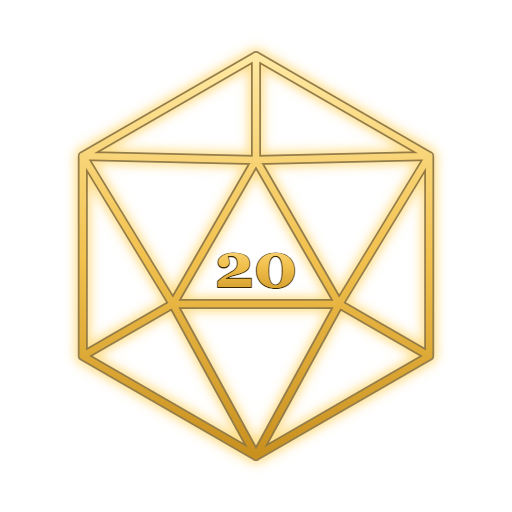
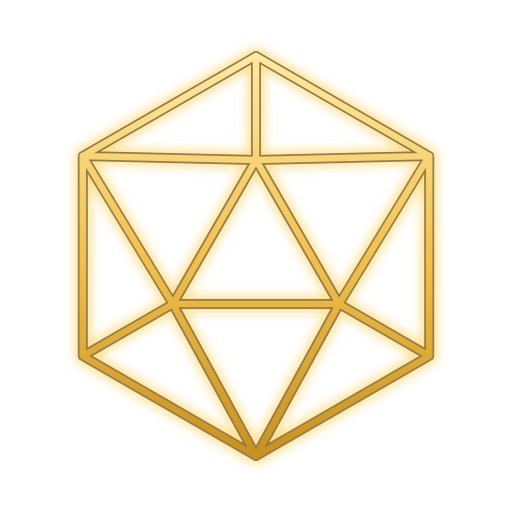
Publish 1.0.0 (2026-10-26)

Changed region(s): [[0.4062, 0.4688, 0.5938, 0.5625]]

diff --git a/obr/background.js b/obr/background.js
@@ -3914,19 +3914,21 @@ var chatKey = (thread) => `kem-chat:${thread}`;
 
 // src/obr/turn-die.js
 var KEY = `${EXT}/turn-die`;
-var SIZE = 2.2;
-var PULSE = { mid: 1.04, depth: 0.08, seconds: 1.6 };
+var SIZE = 1.55;
+var PULSE = { mid: 1.04, depth: 0.08, seconds: 3.2 };
+var SPIN_SECONDS = 60;
 var FRAME_MS = 66;
 var picture = (name) => ({ url: new URL(name, location.href).href, width: 512, height: 512, mime: "image/png" });
 var role = "PLAYER";
 var state = null;
 var settings = {};
-var drawn = { sig: "", glows: [] };
+var drawn = { sig: "", glows: [], dice: [] };
 var busy = false;
 var again = false;
 function wanted() {
-  if (settings.showTurnDie === false || state?.phase !== "active") return [];
-  return state.order?.find((r) => r.key === state.turn)?.tokens || [];
+  if (settings.showTurnDie === false || state?.phase !== "active") return { ids: [], red: false };
+  const row = state.order?.find((r) => r.key === state.turn);
+  return { ids: row?.tokens || [], red: row?.kind !== "pc" };
 }
 async function sync() {
   if (busy) {
@@ -3947,13 +3949,13 @@ async function sync() {
 }
 async function draw() {
   const ready2 = await lib_default.scene.isReady();
-  const ids = ready2 ? wanted() : [];
+  const { ids, red } = ready2 ? wanted() : { ids: [], red: false };
   const tokens = ids.length ? (await lib_default.scene.items.getItems(ids)).filter((t) => role === "GM" || t.visible) : [];
-  const sig = JSON.stringify(tokens.map((t) => [t.id, t.scale.x, t.scale.y]));
+  const sig = JSON.stringify([red, tokens.map((t) => [t.id, t.scale.x, t.scale.y])]);
   if (sig === drawn.sig) return;
   const old = ready2 ? (await lib_default.scene.local.getItems((i) => !!i.metadata?.[KEY])).map((i) => i.id) : [];
   if (old.length) await lib_default.scene.local.deleteItems(old);
-  drawn = { sig, glows: [] };
+  drawn = { sig, glows: [], dice: [] };
   if (!tokens.length) return;
   const dpi = await lib_default.scene.grid.getDpi();
   const add = [];
@@ -3961,9 +3963,11 @@ async function draw() {
     const b = await lib_default.scene.items.getItemBounds([t.id]);
     const base = Math.max(b.width, b.height) * SIZE / dpi;
     const item = (name, kind, z) => buildImage(picture(name), { dpi: 512, offset: { x: 256, y: 256 } }).position(b.center).scale({ x: base, y: base }).attachedTo(t.id).layer("PROP").zIndex(z).locked(true).disableHit(true).disableAttachmentBehavior(["COPY", "ROTATION", "SCALE"]).name("Turn indicator").metadata({ [KEY]: { kind } }).build();
-    const glow = item("turn-glow.png", "glow", 0);
-    add.push(glow, item("turn-d20.png", "die", 1));
+    const tint = red ? "-red" : "";
+    const glow = item(`turn-glow${tint}.png`, "glow", 0), die2 = item(`turn-d20${tint}.png`, "die", 1);
+    add.push(glow, die2);
     drawn.glows.push({ id: glow.id, base });
+    drawn.dice.push(die2.id);
   }
   await lib_default.scene.local.addItems(add);
 }
@@ -3971,13 +3975,18 @@ var animating = false;
 setInterval(async () => {
   if (animating || !drawn.glows.length || document.hidden) return;
   animating = true;
-  const s = PULSE.mid + PULSE.depth * Math.sin(2 * Math.PI * (performance.now() / 1e3) / PULSE.seconds);
+  const now = performance.now() / 1e3;
+  const s = PULSE.mid + PULSE.depth * Math.sin(2 * Math.PI * now / PULSE.seconds);
+  const turn = now / SPIN_SECONDS * 360 % 360;
   const base = new Map(drawn.glows.map((g) => [g.id, g.base]));
   try {
-    await lib_default.scene.local.updateItems([...base.keys()], (items) => {
+    await lib_default.scene.local.updateItems([...base.keys(), ...drawn.dice], (items) => {
       for (const it of items) {
-        const k = base.get(it.id) * s;
-        it.scale = { x: k, y: k };
+        it.rotation = turn;
+        if (base.has(it.id)) {
+          const k = base.get(it.id) * s;
+          it.scale = { x: k, y: k };
+        }
       }
     }, true);
   } catch {
